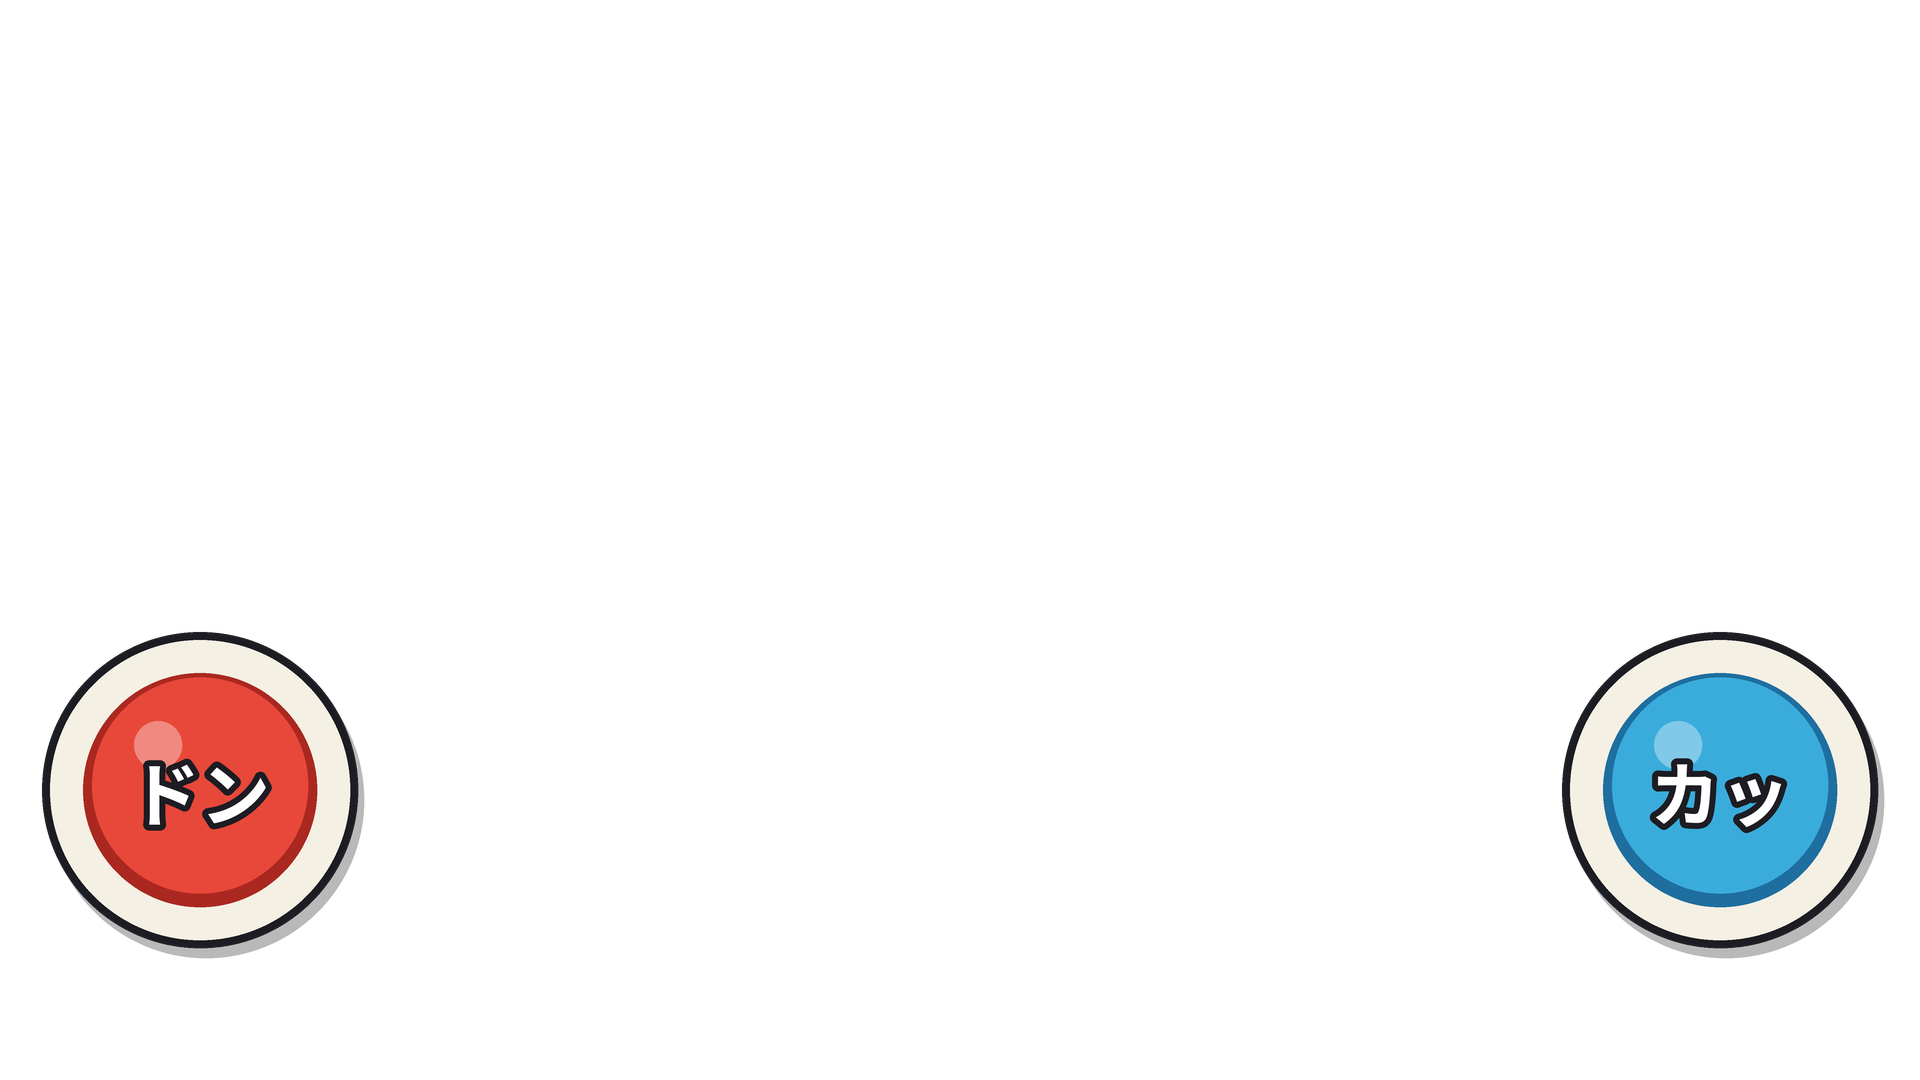
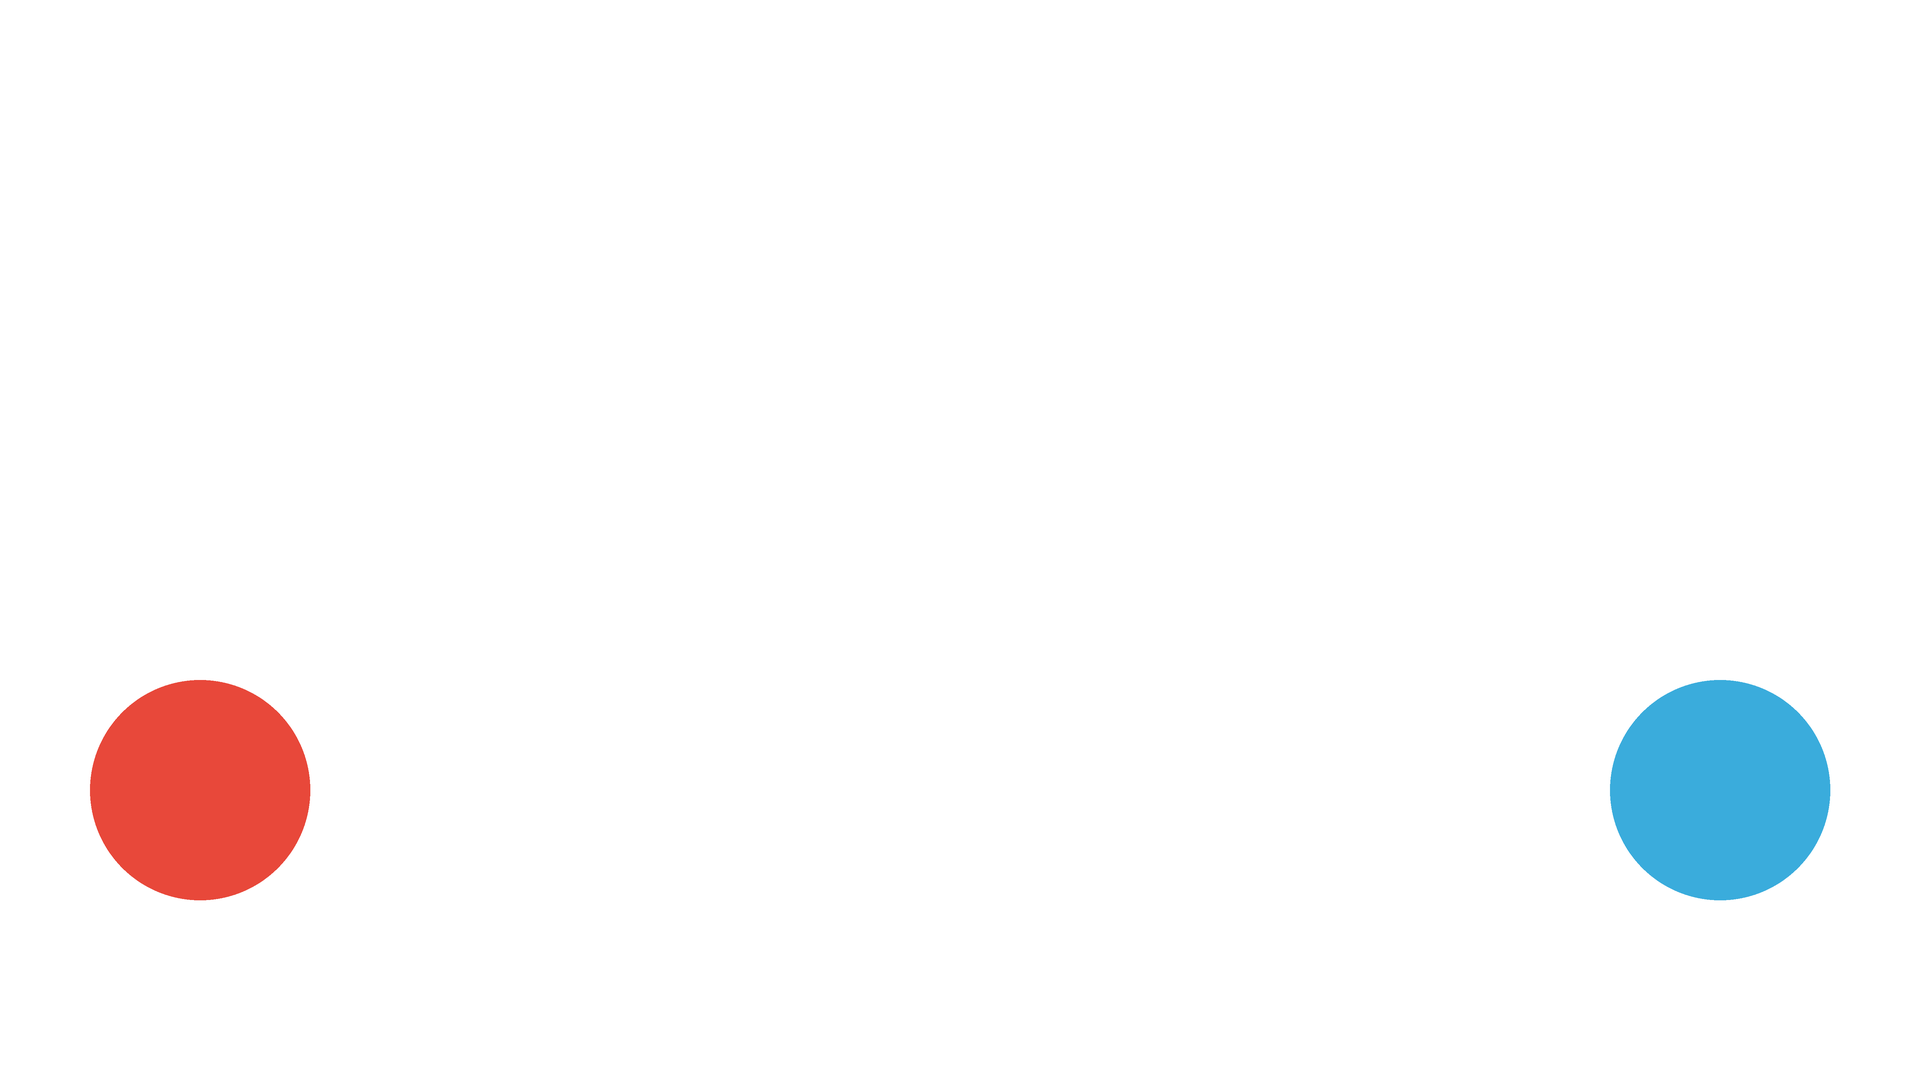
Simple の読み込み画面を最低限にした
- 背景と幕を、上が黒 → 下がこい灰色のグラデーションに（幕のすき間のふちに細い灰色の線）
- ドン・カッの絵を、白い細いふちの赤丸と青丸だけにした（文字・影・光は無し）
- キラキラとヒントの文字（Background_Light.png）をやめた
- 曲名の板はそのまま

Claude-Session: https://claude.ai/code/session_01DAU9tpBiF8CGAJXqk8DqYG

Changed region(s): [[0.8125, 0.5806, 1.0, 0.8861], [0.0, 0.5806, 0.1875, 0.8861]]

diff --git a/tools/skin-gen/loading.py b/tools/skin-gen/loading.py
@@ -1,124 +1,79 @@
 # 曲の読み込み画面の画像(Image/03.SongLoading/)。TaikøNauts と同じ名前・同じ大きさ・同じ使い方
-#   Background.png       1920×1080 … 幕が閉じたときの背景
-#   Background_Fade.png  1920×1080 … 幕(左半分・右半分に分けて両側から動かす。真ん中に、下が広い すき間)
-#   Background_Light.png 1920×1080 … キラキラとヒントの文字(背景の上に重ねる)
-#   Chara.png            1920×1080 … 左下と右下の太鼓(左半分・右半分に分けて動かす)
+#   Simple スキンなので、本家の再現はしない。必要なものだけ、いちばん簡単な形で作る
+#   Background.png       1920×1080 … 幕が閉じたときの背景(上が黒 → 下がこい灰色)
+#   Background_Fade.png  1920×1080 … 幕(背景と同じ色。真ん中に下が広いすき間。すき間のふちに細い灰色の線)
+#   Chara.png            1920×1080 … 左下に赤丸・右下に青丸(白い細いふちだけ。文字や影は無し)
 #   Plate.png            1600×270  … 曲名の板(両はしが透明に溶ける)
+#   キラキラとヒント(Background_Light.png)は作らない(無ければプログラムは何も描かない)
 from common import *
-import random
 import numpy as np
 
 L = 'Image/03.SongLoading/'
 W, H = 1920, 1080
+TOP = (12, 12, 14)        # 上の色(ほぼ黒)
+BOTTOM = (48, 48, 54)     # 下の色(こい灰色)
+EDGE = (96, 96, 104)      # 幕のすき間のふち
 
-# 落ち着いた虹色のしま(8本)。Simple スキンの暗めの色に合わせて、色を弱く・少し暗く
-def stripe_colors():
-    return [hsv(0.30 - i * 0.11, 0.42, 0.62) for i in range(8)]
-
-def stripes(c, cols, x0=0, x1=W):
-    for i, col in enumerate(cols):
-        a, b = max(x0, i * 240), min(x1, (i + 1) * 240)
-        if a < b:
-            c.rect(a, 0, b, H, fill=col)
-    # うすい水玉(どの色の上でも見える、白 6%)。1枚の層にまとめて描いてから重ねる(1つずつ重ねると遅い)
-    layer = Image.new('RGBA', c.im.size, (0, 0, 0, 0))
-    d = ImageDraw.Draw(layer)
-    for y in range(30, H, 60):
-        for x in range(30 + (y // 60 % 2) * 30, W, 60):
-            if x0 <= x < x1:
-                d.ellipse([c.s(x - 9), c.s(y - 9), c.s(x + 9), c.s(y + 9)], fill=(255, 255, 255, 16))
-    c.im.alpha_composite(layer)
+def gradient():
+    t = np.linspace(0, 1, H, dtype=np.float32)[:, None, None]
+    top = np.array(TOP, dtype=np.float32)[None, None, :]
+    bottom = np.array(BOTTOM, dtype=np.float32)[None, None, :]
+    rgb = np.broadcast_to(top + (bottom - top) * t, (H, W, 3))
+    a = np.full((H, W, 1), 255, dtype=np.float32)
+    return Image.fromarray(np.concatenate([rgb, a], axis=2).round().astype(np.uint8), 'RGBA')
 
 def background():
-    c = Canvas(W, H)
-    stripes(c, stripe_colors())
-    c.save(L + 'Background.png')
+    save_image(gradient(), L + 'Background.png')
 
 def gap_half_width(y):
     """幕のすき間の半分の幅(上は細く、下へ行くほど広い)"""
-    t = y / H
-    return 4 + 330 * t ** 2.2
+    return 4 + 330 * (y / H) ** 2.2
 
 def background_fade():
-    c = Canvas(W, H)
-    stripes(c, stripe_colors())
-    # 真ん中のすき間をくりぬく(大きく描いてから、すき間の形で透明にする)
-    im = c.im
-    mask = Image.new('L', im.size, 255)
-    d = ImageDraw.Draw(mask)
-    pts_l = [(960 - gap_half_width(y), y) for y in range(0, H + 1, 4)]
-    pts_r = [(960 + gap_half_width(y), y) for y in range(H, -1, -4)]
-    d.polygon([(x * SS, y * SS) for x, y in pts_l + pts_r], fill=0)
-    # すき間のふちに、少し暗い影(幕のひだ)
-    shade = Image.new('RGBA', im.size, (0, 0, 0, 0))
-    sd = ImageDraw.Draw(shade)
-    for side in (-1, 1):
-        edge = [(960 + side * gap_half_width(y), y) for y in range(0, H + 1, 4)]
-        sd.line([(x * SS, y * SS) for x, y in edge], fill=(0, 0, 0, 70), width=int(24 * SS))
-    shade = shade.filter(ImageFilter.GaussianBlur(10 * SS))
-    im.alpha_composite(shade)
-    alpha = Image.fromarray(np.minimum(np.asarray(im.getchannel('A')), np.asarray(mask)))
-    im.putalpha(alpha)
-    c.save(L + 'Background_Fade.png')
+    # SS 倍で形を作って縮める(すき間のふちをなめらかにするため)
+    big = (W * SS, H * SS)
+    left = [(960 - gap_half_width(y), y) for y in range(0, H + 1, 4)]
+    right = [(960 + gap_half_width(y), y) for y in range(H, -1, -4)]
+    hole = Image.new('L', big, 255)
+    ImageDraw.Draw(hole).polygon([(x * SS, y * SS) for x, y in left + right], fill=0)
+    edge = Image.new('L', big, 0)
+    d = ImageDraw.Draw(edge)
+    for side in (left, right):
+        d.line([(x * SS, y * SS) for x, y in side], fill=255, width=3 * SS)
+    hole = hole.resize((W, H), Image.LANCZOS)
+    edge = edge.resize((W, H), Image.LANCZOS)
 
-def sparkle(c, x, y, r, a=255):
-    """4本の光(細いひし形を2つ)と、まわりのにじみ"""
-    c.circle(x, y, r * 0.55, fill=(255, 255, 230, a // 5))
-    c.poly([(x, y - r), (x + r * 0.16, y), (x, y + r), (x - r * 0.16, y)], fill=(255, 255, 240, a))
-    c.poly([(x - r, y), (x, y - r * 0.16), (x + r, y), (x, y + r * 0.16)], fill=(255, 255, 240, a))
-
-def background_light():
-    c = Canvas(W, H)
-    rnd = random.Random(1029)
-    for _ in range(26):
-        x, y = rnd.uniform(40, W - 40), rnd.uniform(40, H - 40)
-        if 200 < y < 600 and 200 < x < 1720:  # 曲名の板の場所はよける
-            continue
-        sparkle(c, x, y, rnd.uniform(10, 30), rnd.randint(150, 255))
-    c.im = glow(c.im, 6 * SS)
-    c.d = type(c.d)(c)  # 絵を入れ替えたので、描く道具も作り直す
-    # ヒント(白い字に、暗い縁)
-    lines = [('ゲームのヒント', 30), ('重いと感じたら', 28), ('設定の「デバッグ記録」で', 28), ('どこが重いか調べられるよ！', 28)]
-    y = 735
-    for txt, size in lines:
-        c.text(960, y, txt, size, (255, 255, 255, 255), stroke=5, stroke_fill=INK, bold=True)
-        y += 48 if size == 30 else 42
-    c.save(L + 'Background_Light.png')
-
-def drum(c, cx, cy, r, col, dark):
-    c.circle(cx + 6, cy + 10, r + 8, fill=(0, 0, 0, 70))       # 影
-    c.circle(cx, cy, r + 8, fill=INK + (255,))                  # 黒い縁
-    c.circle(cx, cy, r, fill=RIM + (255,))                      # 白いふち
-    c.circle(cx, cy, r * 0.78, fill=dark + (255,))
-    c.circle(cx, cy - r * 0.03, r * 0.72, fill=col + (255,))    # 面
-    c.circle(cx - r * 0.28, cy - r * 0.30, r * 0.16, fill=(255, 255, 255, 90))  # 光
+    im = gradient()
+    im.paste(Image.new('RGBA', (W, H), EDGE + (255,)), (0, 0), edge)     # ふちの線
+    alpha = np.maximum(np.asarray(hole), np.asarray(edge))               # 線はすき間側にはみ出しても見えるように
+    im.putalpha(Image.fromarray(alpha))
+    save_image(im, L + 'Background_Fade.png')
 
 def chara():
     c = Canvas(W, H)
-    drum(c, 200, 790, 150, DON, DON_DARK)     # 左(ドン)
-    drum(c, 1720, 790, 150, KA, KA_DARK)      # 右(カッ)
-    c.text(200, 790, 'ドン', 70, (255, 255, 255, 255), stroke=6, stroke_fill=INK, bold=True)
-    c.text(1720, 790, 'カッ', 70, (255, 255, 255, 255), stroke=6, stroke_fill=INK, bold=True)
+    for cx, col in ((200, DON), (1720, KA)):
+        c.circle(cx, 790, 116, fill=(255, 255, 255, 255))   # 白い細いふち
+        c.circle(cx, 790, 110, fill=col + (255,))
     c.save(L + 'Chara.png')
 
 def plate():
     w, h = 1600, 270
-    im = Image.new('RGBA', (w, h), (246, 244, 250, 210))
-    a = np.full((h, w), 210, dtype=np.float32)
-    ramp = 240  # 両はしの溶ける幅
     x = np.arange(w, dtype=np.float32)
-    k = np.clip(np.minimum(x, w - 1 - x) / ramp, 0, 1)
-    a *= (k * k * (3 - 2 * k))[None, :]
-    # 上と下に細い金の線
-    arr = np.asarray(im).copy()
-    arr[..., 3] = a.astype(np.uint8)
-    for yy in list(range(6, 10)) + list(range(h - 10, h - 6)):
+    k = np.clip(np.minimum(x, w - 1 - x) / 240, 0, 1)   # 両はしの溶ける幅 240px
+    k = k * k * (3 - 2 * k)
+    arr = np.zeros((h, w, 4), dtype=np.uint8)
+    arr[..., :3] = (246, 244, 250)
+    arr[..., 3] = (210 * k)[None, :].astype(np.uint8)
+    for yy in list(range(6, 10)) + list(range(h - 10, h - 6)):   # 上と下に細い金の線
         arr[yy, :, :3] = ACCENT
-        arr[yy, :, 3] = (255 * k * k * (3 - 2 * k)).astype(np.uint8)
+        arr[yy, :, 3] = (255 * k).astype(np.uint8)
     save_image(Image.fromarray(arr), L + 'Plate.png')
 
 def run():
-    background(); background_fade(); background_light(); chara(); plate()
+    background(); background_fade(); chara(); plate()
+    old = os.path.join(OUT, L, 'Background_Light.png')   # 前に作っていたキラキラとヒントは消す
+    if os.path.exists(old):
+        os.remove(old)
 
 if __name__ == '__main__':
     run()

diff --git a/AGENTS.md b/AGENTS.md
@@ -262,7 +262,7 @@ python sounds.py      # 音（ffmpeg が必要）
   - 演奏画面は幕が開き始めたときから動く（それまでは `SceneManager.IsBlocking`）
   - 板は 0.9倍で真ん中 (960, 400)。曲名は 62px・白い字に黒い縁 6px・真ん中の y=390。サブタイトルは 34px・こい灰色・y=478
   - TaikøNauts のヒントの画像の名前は `Background_Light..png`（点が2つ）。`Background_Light.png` が無ければそっちを読む
-  - Simple は `tools/skin-gen/loading.py` で作った（落ち着いた虹色のしま・太鼓の絵・ヒントの文字）
+  - Simple は `tools/skin-gen/loading.py` で作った。**本家の再現はしない・最低限だけ**（たけらいの希望）：上が黒→下がこい灰色の背景と幕（すき間のふちに細い灰色の線）・白い細いふちの赤丸と青丸・曲名の板。キラキラとヒントは無し
 
 - ドンダフルコンボの紙ふぶき（`PlayEnd.DrawConfetti`）
   - `Confetti.png`（520×368 が横10・縦5）のコマは **縦に読む**（0〜4 が1列目の上から下）。A-Style の画像で、上下のコマは形がつながっていて、左右はつながっていなかった
